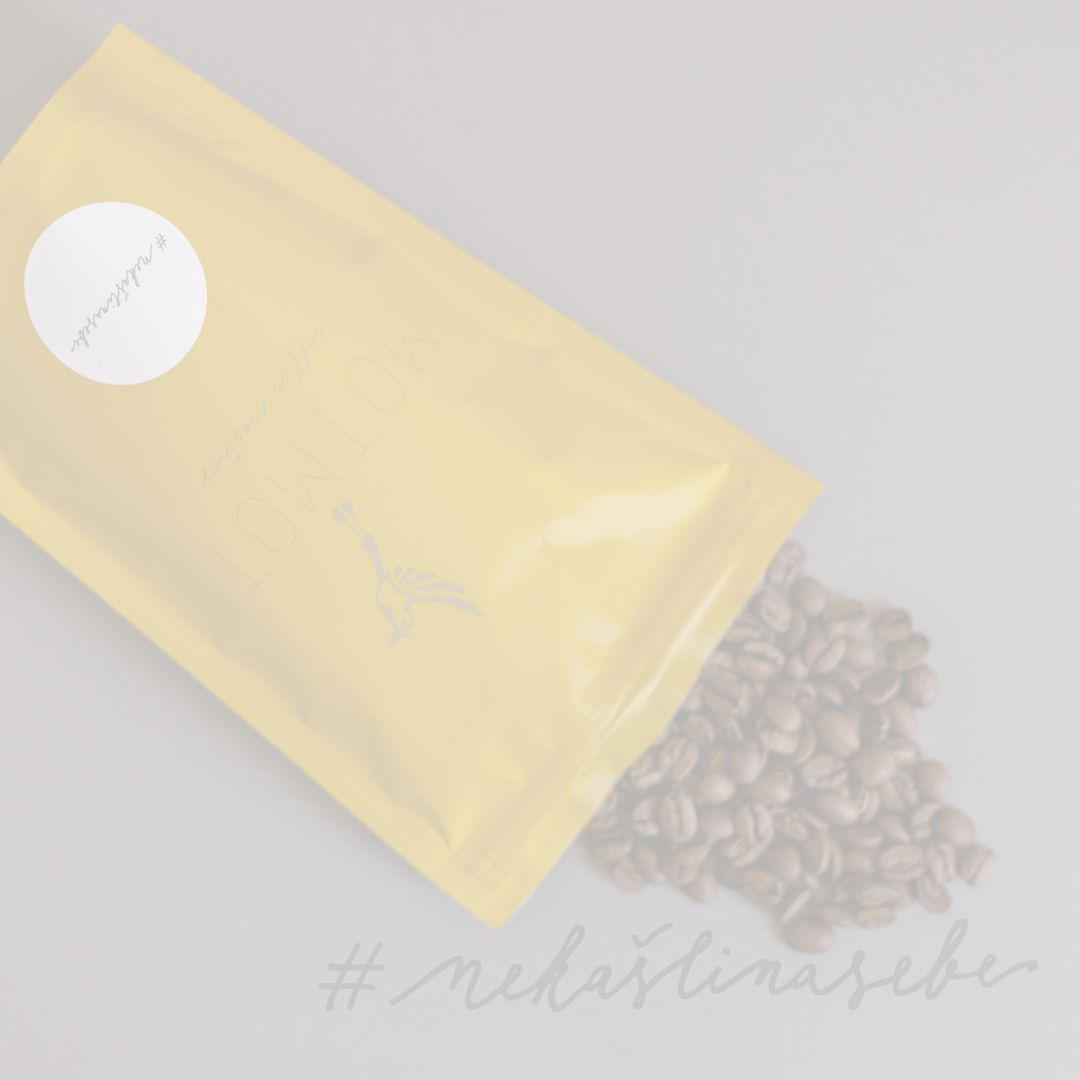
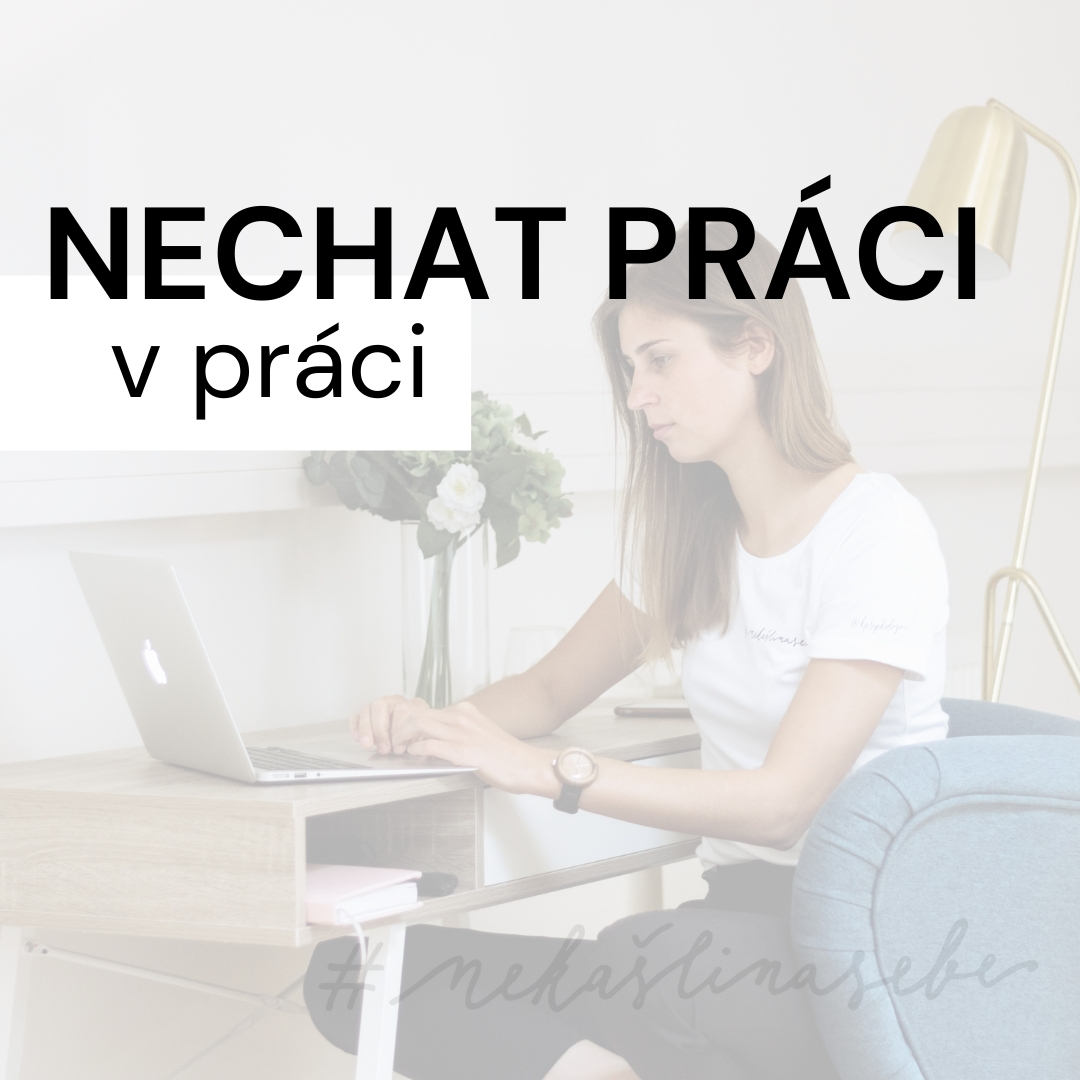
tip2

diff --git a/tips/24-23/tip2.html b/tips/24-23/tip2.html
@@ -80,7 +80,7 @@
         <div class="row mb-8 align-items-center">
           <div class="col-md-8,9" data-aos="fade-up">
             <h2>2.tip #nekaslinasebe</h2>
-            <p>Tip tady ještě není. </p>
+            <p>Dnešní tip #nekaslinasebe ti pomůže nechat práci v práci. Často nejen na terapiích, ale i v osobním životě slýchávám, že máme <b>v hlavě práci 24/7</b>. Obáváme se, přemýšlíme o ní a i když jsme doma nebo si můžeme odpočinout, tak se jí zabýváme. <b>Co musím zítra udělat? Co jsem ještě nedodělal/a?</b> Znáte to taky? Já jo. Pojďme si ukázat jednoduchou techniku 4:55 drill, která nás může <b>zachránit před hodinami stresu a zahlcením v hlavě</b>. Pravidelné zapojení techniky 4:55 drill umožní odpočinek a využití nepracovního času pro sebe, svou rodinu nebo kamarády. Dnes má tip #nekaslinasebe pouze 2 varianty. Tak jdeme na to?</p>
           </div>
         </div>
       </div>
@@ -97,15 +97,14 @@
                 <p class="mb-4"><span class="text-muted">Pokud máš:</span></p>
 
                 <div class="mb-5">
-                  <p><b>1 minutku</b>:</p>
-                  <p><b>5 minut</b>:</p>
-                  <p><b>15 minut</b>:</p>
+                  <p><b>1 minutku</b>: <b>Nastav si budík na 5 minut předtím, než budeš oficiálně odcházet z práci.</b> Až budík zazvoní, dodělej nejnutnější věc. Vezmi si do ruky malý <b>sticker</b> nebo kousek papíru a napiš si <b>3 nejdůležitější úkoly na další den.</b> Nalep si sticker na viditelné místo, zaklapni notebook a jdi domů. </p>
+                  <p><b>5 minut</b>: Následuj minutkový tip. Až ti zazvoní budík, vezmi si k sobě malý sticker. Přelož ho horizontálně <b>napůl. Do horní části si napiš 3 nejdůležitější konkrétní věci</b>, které je potřeba zítra udělat. Na <b>dolní část si napiš další možné to do na další den.</b> Nalep si sticker na viditelné místo na počítači, zaklapni notebook a hurá domů. Ať už si na home office nebo někam opravdu odcházíš.</p>
                 </div>
               </div>
             </div>
           </div>
           <div class="col-md-12 ml-auto mt-3">
-            <p><b>PS:</b></p>
+            <p><b>PS:</b> Proč technika funguje? <b>Mysl nemá ráda nedokončené úkoly</b>. V psychologii tomu říkáme <b>“efekt Zeigarnikové”</b>. Nedokončené úkoly a věci nám náš mozek automaticky stále dokola připomíná. Ano, dokud je nedokončíme. Jen si vzpomeň na situaci, kdy si měl/a něco v hlavě do té doby, než ses zvedl/a a napsala si to na papír, do diáře nebo jsi to udělal/a. Právě proto jednoduché napsání si zítřejších nejdůležitějších todo může poskytnout mozku rychlou úlevu a dovolit mysli si opravdu zrelaxovat. Jsem v tom s tebou, Terka. </p>
           </div>
           <div class="col-md-12 ml-auto mt-3">
             <p> Vše, co tu vidíš, děláme <b>zadarmo</b>. Kdybys nás chtěl/a podpořit, budeme rádi, když mrkneš na naše
